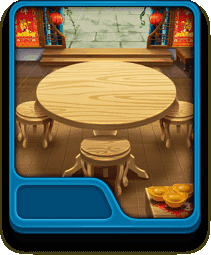
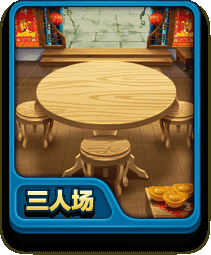
test

Changed region(s): [[0.1137, 0.7137, 0.455, 0.8784]]

diff --git a/client/src/engin/components/CCSScrollView/CCSScrollView.js b/client/src/engin/components/CCSScrollView/CCSScrollView.js
@@ -2,52 +2,115 @@
  * CCSScrollView.js
  * Created by Administrator on 2014/7/9.
  */
-var CCSListView = cc.Node.extend({
-    init: function () {
+var CCSScrollView = cc.Node.extend({
+    init: function (param) {
         if (this._super()) {
+            var size = param.size;
+            var direction = param.direction;
+            var cellSize = param.cellSize;
+            var cellName = param.cellName;
+            var array = param.array || [];
+
+
             // Create the scrollview
             var scrollView = ccui.ScrollView.create();
-            scrollView.setDirection(ccui.ScrollView.DIR_VERTICAL);
+            scrollView.setDirection(direction);
             scrollView.setTouchEnabled(true);
-            scrollView.setSize(cc.size(280, 150));
+            scrollView.setSize(size);
             this.addChild(scrollView);
 
-            var imageView = ccui.ImageView.create();
-            imageView.loadTexture("res/cocosui/ccicon.png");
 
-            var innerWidth = scrollView.width;
-            var innerHeight = scrollView.height + imageView.height;
 
-            scrollView.setInnerContainerSize(cc.size(innerWidth, innerHeight));
+            //加载cell
+            var callBack = function(){//js加载成功
 
-            var button = ccui.Button.create();
-            button.setTouchEnabled(true);
-            button.loadTextures("res/cocosui/animationbuttonnormal.png", "res/cocosui/animationbuttonpressed.png", "");
-            button.x = innerWidth / 2;
-            button.y = scrollView.getInnerContainerSize().height - button.height / 2;
-            scrollView.addChild(button);
+                for(var i=0;i<array.length;i++){
+                    var one = array[i];
+                    var cla = eval("new "+cellName +"()");
+                    cla.init(one);
+                    scrollView.addNode(cla)
 
-            var textButton = ccui.Button.create();
-            textButton.setTouchEnabled(true);
-            textButton.loadTextures("res/cocosui/backtotopnormal.png", "res/cocosui/backtotoppressed.png", "");
-            textButton.setTitleText("Text Button");
-            textButton.x = innerWidth / 2;
-            textButton.y = button.getBottomInParent() - button.height;
-            scrollView.addChild(textButton);
+                    var claX = 0
+                    var claY = 0
+                    if(direction == ccui.ScrollView.DIR_HORIZONTAL) {//横板
+                        claX = i * cellSize.width;
+                    }else {
+                        claY = i * cellSize.height;
+                    }
 
-            var button_scale9 = ccui.Button.create();
-            button_scale9.setTouchEnabled(true);
-            button_scale9.setScale9Enabled(true);
-            button_scale9.loadTextures("res/cocosui/button.png", "res/cocosui/buttonHighlighted.png", "");
-            button_scale9.width = 100;
-            button_scale9.height = 32;
-            button_scale9.x = innerWidth / 2;
-            button_scale9.y = textButton.getBottomInParent() - textButton.height;
-            scrollView.addChild(button_scale9);
 
-            imageView.x = innerWidth / 2;
-            imageView.y = imageView.height / 2;
-            scrollView.addChild(imageView);
+                    cla.setPosition(claX,claY);
+                }
+
+
+
+
+                if(direction == ccui.ScrollView.DIR_HORIZONTAL) {//横板
+                    var  innerContainerlen =  array.length * cellSize.width;
+                    scrollView.setInnerContainerSize(cc.size(size.width + innerContainerlen, size.height));//scrollHeight 就是可以滑动的高度
+                }else{
+                    var  innerContainerlen =  array.length * cellSize.height;
+                    scrollView.setInnerContainerSize(cc.size(size.width, size.height + scrollHeight));//scrollHeight 就是可以滑动的高度
+                }
+
+            }
+            var jsName = cellName + ".js";
+            cc.loader.loadJs("src/engin/components/ccsscrollView/",[jsName],callBack);
+
+
+
+//            //加载ccs的ui
+//            for(var i=0;i<array.length;i++) {
+//                var button = ccui.Button.create();
+//                button.setTouchEnabled(true);
+//                button.loadTextures("res/hall_image_3ren.png", "res/hall_image_3ren.png", "");
+//                button.x  = i * cellSize.width;
+//                button.y = scrollView.getInnerContainerSize().height - button.height / 2;
+//                scrollView.addChild(button);
+//            }
+
+
+
+
+
+
+
+//            var imageView = ccui.ImageView.create();
+//            imageView.loadTexture("res/cocosui/ccicon.png");
+////
+//            var innerWidth = scrollView.width;
+//            var innerHeight = scrollView.height  imageView.height;
+//
+//            scrollView.setInnerContainerSize(cc.size(innerWidth, innerHeight));
+//
+//            var button = ccui.Button.create();
+//            button.setTouchEnabled(true);
+//            button.loadTextures("res/cocosui/animationbuttonnormal.png", "res/cocosui/animationbuttonpressed.png", "");
+//            button.x = innerWidth / 2;
+//            button.y = scrollView.getInnerContainerSize().height - button.height / 2;
+//            scrollView.addChild(button);
+//
+//            var textButton = ccui.Button.create();
+//            textButton.setTouchEnabled(true);
+//            textButton.loadTextures("res/cocosui/backtotopnormal.png", "res/cocosui/backtotoppressed.png", "");
+//            textButton.setTitleText("Text Button");
+//            textButton.x = innerWidth / 2;
+//            textButton.y = button.getBottomInParent() - button.height;
+//            scrollView.addChild(textButton);
+//
+//            var button_scale9 = ccui.Button.create();
+//            button_scale9.setTouchEnabled(true);
+//            button_scale9.setScale9Enabled(true);
+//            button_scale9.loadTextures("res/cocosui/button.png", "res/cocosui/buttonHighlighted.png", "");
+//            button_scale9.width = 100;
+//            button_scale9.height = 32;
+//            button_scale9.x = innerWidth / 2;
+//            button_scale9.y = textButton.getBottomInParent() - textButton.height;
+//            scrollView.addChild(button_scale9);
+//
+//            imageView.x = innerWidth / 2;
+//            imageView.y = imageView.height / 2;
+//            scrollView.addChild(imageView);
 
             return true;
         }

diff --git a/client/src/app/scenes/HallScene.js b/client/src/app/scenes/HallScene.js
@@ -27,16 +27,21 @@ var HallLayer =  BaseScene.extend({
         var param = {
             size : cc.size(960, 255),
             cellSize:cc.size(220,255),
+            cellName:"CCSScrollCellView_HallType",
+            array:[[],[],[],[],[],[],[],[],[],[],[],[],[],[],[],[],[],[],[],[],[],[],[],[]],
             direction:ccui.ScrollView.DIR_HORIZONTAL //ccui.ScrollView.DIR_VERTICAL
         }
-        var ccsListView = new CCSListView()
-        ccsListView.init(param);
-        ccsListView.setPosition(0,display.cy-255/2+30);
-        backgroundLayer.addChild(ccsListView);
+        var ccsScrollView = new CCSScrollView()
+        ccsScrollView.init(param);
+        ccsScrollView.setPosition(0,display.cy-255/2+30);
+        backgroundLayer.addChild(ccsScrollView);
+
+
 
         //开速开始按钮
         var startSpt = display.newSprite("#hall_image_start.png",display.cx,140)
         backgroundLayer.addChild(startSpt);
+
 
 
 

diff --git a/client/src/engin/components/ccslistview/CCSListView.js b/client/src/engin/components/ccslistview/CCSListView.js
@@ -1,5 +1,16 @@
 /**
  * CCSListView.js
+ * 使用方法：
+ *  var param = {
+        size : cc.size(960, 255),
+        cellSize:cc.size(220,255),
+        direction:ccui.ScrollView.DIR_HORIZONTAL //ccui.ScrollView.DIR_VERTICAL
+    }
+    var ccsListView = new CCSListView()
+    ccsListView.init(param);
+    ccsListView.setPosition(0,display.cy-255/2+30);
+    backgroundLayer.addChild(ccsListView);
+
  * Created by Administrator on 2014/7/8.
  */
 

diff --git a/client/src/engin/components/CCSScrollView/CCSScrollCellView_HallType.js b/client/src/engin/components/CCSScrollView/CCSScrollCellView_HallType.js
@@ -1,0 +1,13 @@
+/**
+ * 房间类型选项
+ *  比如 三人场  单机场
+ * Created by Administrator on 2014/7/10.
+ */
+var CCSScrollCellView_HallType = cc.Node.extend({
+
+
+    init:function(){
+        var spt = display.newSprite("#hall_image_3ren.png")
+        this.addChild(spt);
+    }
+})
